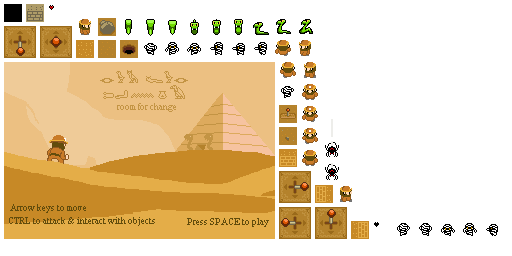
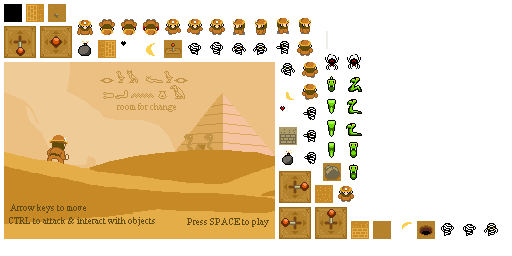
Player can now die

Changed region(s): [[0.0312, 0.0, 0.625, 0.25], [0.5312, 0.2188, 0.7188, 0.8125], [0.6875, 0.8438, 0.9688, 0.9375]]

diff --git a/roomforchange/roomforchange/src/com/sturdyhelmetgames/roomforchange/entity/Player.java b/roomforchange/roomforchange/src/com/sturdyhelmetgames/roomforchange/entity/Player.java
@@ -9,6 +9,9 @@ import com.sturdyhelmetgames.roomforchange.level.Level.LevelTile;
 
 public class Player extends Entity {
 
+	public float dyingAnimState = 0f;
+	public float dyingTime = 0f;
+	public float maxDyingTime = 3f;
 	public float invulnerableTime = 0f;
 	public float maxInvulnerableTime = 4f;
 	public int health = 5;
@@ -25,28 +28,42 @@ public class Player extends Entity {
 
 		Animation animation = null;
 
-		if (direction == Direction.UP) {
-			animation = Assets.playerWalkBack;
-		} else if (direction == Direction.DOWN) {
-			animation = Assets.playerWalkFront;
-		} else if (direction == Direction.RIGHT) {
-			animation = Assets.playerWalkRight;
-		} else if (direction == Direction.LEFT) {
-			animation = Assets.playerWalkLeft;
-		}
-
-		if (isNotWalking()) {
-			batch.draw(animation.getKeyFrame(0.25f), bounds.x, bounds.y, width,
-					height);
-		} else {
-			batch.draw(animation.getKeyFrame(stateTime, true), bounds.x,
+		if (isDying() || isDead()) {
+			animation = Assets.playerDying;
+			batch.draw(animation.getKeyFrame(dyingAnimState), bounds.x,
 					bounds.y, width, height);
+		} else {
+			if (direction == Direction.UP) {
+				animation = Assets.playerWalkBack;
+			} else if (direction == Direction.DOWN) {
+				animation = Assets.playerWalkFront;
+			} else if (direction == Direction.RIGHT) {
+				animation = Assets.playerWalkRight;
+			} else if (direction == Direction.LEFT) {
+				animation = Assets.playerWalkLeft;
+			}
+			if (isNotWalking()) {
+				batch.draw(animation.getKeyFrame(0.25f), bounds.x, bounds.y,
+						width, height);
+			} else {
+				batch.draw(animation.getKeyFrame(stateTime, true), bounds.x,
+						bounds.y, width, height);
+			}
 		}
 
 	}
 
 	@Override
 	public void update(float fixedStep) {
+
+		if (isDying()) {
+			dyingAnimState += fixedStep;
+			dyingTime += fixedStep;
+			if (dyingTime >= maxDyingTime) {
+				state = EntityState.DEAD;
+			}
+		}
+
 		super.update(fixedStep);
 
 		if (invulnerableTime > 0f) {

diff --git a/roomforchange/roomforchange/src/com/sturdyhelmetgames/roomforchange/assets/Assets.java b/roomforchange/roomforchange/src/com/sturdyhelmetgames/roomforchange/assets/Assets.java
@@ -70,6 +70,7 @@ public class Assets {
 	public static Animation playerWalkBack;
 	public static Animation playerWalkRight;
 	public static Animation playerWalkLeft;
+	public static Animation playerDying;
 
 	public static Animation spiderFront;
 
@@ -213,6 +214,13 @@ public class Assets {
 		playerWalkLeft = new Animation(0.2f,
 				new TextureRegion[] { getGameObject("player-left-1"),
 						getGameObject("player-left-2"), });
+		playerDying = new Animation(0.2f, new TextureRegion[] {
+				getGameObject("player-dying-1"),
+				getGameObject("player-dying-2"),
+				getGameObject("player-dying-3"),
+				getGameObject("player-dying-4"),
+				getGameObject("player-dying-5"), });
+		playerDying.setPlayMode(Animation.NORMAL);
 
 		spiderFront = new Animation(0.2f, new TextureRegion[] {
 				getGameObject("spider-front-1"),

diff --git a/roomforchange/roomforchange/src/com/sturdyhelmetgames/roomforchange/entity/Entity.java b/roomforchange/roomforchange/src/com/sturdyhelmetgames/roomforchange/entity/Entity.java
@@ -208,4 +208,16 @@ public class Entity {
 	public void hitWallHook() {
 
 	}
+
+	public boolean isDying() {
+		return state == EntityState.DYING;
+	}
+
+	public boolean isDead() {
+		return state == EntityState.DEAD;
+	}
+
+	public boolean isAlive() {
+		return !isDying() && !isDead();
+	}
 }

diff --git a/roomforchange/roomforchange/src/com/sturdyhelmetgames/roomforchange/screen/GameScreen.java b/roomforchange/roomforchange/src/com/sturdyhelmetgames/roomforchange/screen/GameScreen.java
@@ -110,7 +110,7 @@ public class GameScreen extends Basic2DScreen {
 	}
 
 	protected void processKeys() {
-		if (!paused) {
+		if (!paused && level.player.isAlive()) {
 			// process player movement keys
 			if (Gdx.input.isKeyPressed(Keys.UP)) {
 				level.player.moveWithAccel(Direction.UP);
